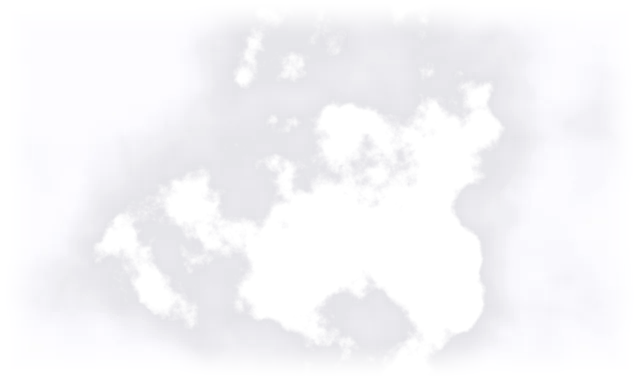
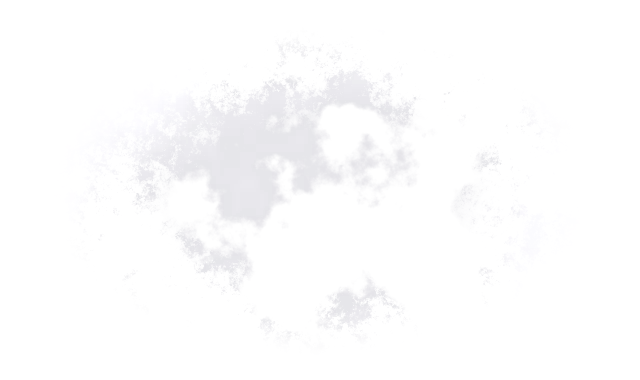
Collapsible panels, no area circles on real data, softer demo clouds
- The left panel (story card, layers, daily briefing) and the timeline fold
  away with a button and come back from a small pill; remembered per browser,
  and the map padding follows.
- Real data: the area circles are no longer drawn; the lake and the name tags
  stay, and the area is still clickable.
- Demo: clouds end in ragged tufts and are always clear near the frame, so the
  image rectangle no longer shows.

diff --git a/js/app.js b/js/app.js
@@ -69,8 +69,30 @@ const fmtNum = (v, d = 0) => `${v > 0 ? '+' : ''}${v.toFixed(d)}`.replace('-', '
 const isMobile = () => innerWidth <= 820;
 
 function pad() {
-  if (isMobile()) return { top: 66, bottom: 140, left: 10, right: 10 };
-  return { top: 76, bottom: 150, left: state.mode === 'explore' ? 348 : 432, right: state.pointId || state.regionId ? 408 : 16 };
+  if (isMobile()) return { top: 66, bottom: ui.tl ? 80 : 140, left: 10, right: 10 };
+  return {
+    top: 76, bottom: ui.tl ? 90 : 150,
+    left: ui.left ? 16 : state.mode === 'explore' ? 348 : 432,
+    right: state.pointId || state.regionId ? 408 : 16,
+  };
+}
+
+// Collapsible panels: the left panel (layers / briefing / story card) and the timeline fold away with a button and
+// come back from a small pill. Remembered per browser.
+const ui = (() => {
+  try { return { left: localStorage.getItem('ed.ui.left') === '1', tl: localStorage.getItem('ed.ui.tl') === '1' }; } catch { return { left: false, tl: false }; }
+})();
+function applyCollapse(ease = false) {
+  app.classList.toggle('left-collapsed', ui.left);
+  app.classList.toggle('tl-collapsed', ui.tl);
+  $('#leftPill').hidden = !ui.left;
+  const label = state.mode === 'story' ? $('#storyTitle').textContent : t(state.mode === 'status' ? 'brief.kicker' : 'layers.title');
+  $('#leftPillLabel').textContent = label;
+  $('#leftPill').title = t('ui.show');
+  $('#tlCollapse').title = t(ui.tl ? 'ui.show' : 'ui.hide');
+  $('#leftCollapse').title = t('ui.hide');
+  try { localStorage.setItem('ed.ui.left', ui.left ? '1' : '0'); localStorage.setItem('ed.ui.tl', ui.tl ? '1' : '0'); } catch { /* ignore */ }
+  if (ease && mapA?.loaded()) mapA.easeTo({ padding: pad(), duration: 500 });
 }
 
 const overlayOpacity = (map) => (state.sensor === 'radar' && !map?.__ovEmpty ? RADAR_OPACITY : 0);
@@ -569,6 +591,7 @@ function renderStory() {
     `<button data-story="${i}" class="${i < state.storyIdx ? 'done' : i === state.storyIdx ? 'now' : ''}" aria-label="${i + 1}"></button>`).join('');
   $('#storyKicker').textContent = L(ch.kicker);
   $('#storyTitle').textContent = L(ch.title);
+  applyCollapse();
   $('#storyBody').textContent = L(ch.body);
   $('#storyNextLabel').textContent = t(state.storyIdx === 0 ? 'story.start' : state.storyIdx === n - 1 ? 'story.finish' : 'story.next');
   $('#storyPrev').disabled = state.storyIdx === 0;
@@ -609,6 +632,7 @@ function setMode(mode) {
   app.classList.remove('drawer');
   $$('.mode').forEach((b) => b.classList.toggle('is-active', b.dataset.mode === mode));
   status.setVisible(mode === 'status');
+  applyCollapse();
   if (mode === 'story') return goStory(0);
   if (mode === 'status') {
     closePoint(false);
@@ -673,6 +697,7 @@ function renderAbout() {
 // ───────────────────────────────────────────────────────── render everything (also on language change)
 function renderAll() {
   document.documentElement.lang = state.lang;
+  applyCollapse();
   $$('[data-i18n]').forEach((el) => { el.textContent = t(el.dataset.i18n); });
   $('#btnLang').classList.toggle('en', state.lang === 'en');
   $('#siteName').textContent = `${L(M.site.name)} · ${L(M.site.country)}`;
@@ -750,6 +775,9 @@ function bindUI() {
     state.tilt = false; $('#btnTilt').classList.remove('is-on');
     mapA.easeTo({ center: M.site.center, zoom: M.site.zoom, pitch: 0, bearing: 0, padding: pad(), duration: 1200 });
   });
+  $('#leftCollapse').addEventListener('click', () => { ui.left = true; applyCollapse(true); });
+  $('#leftPill').addEventListener('click', () => { ui.left = false; applyCollapse(true); });
+  $('#tlCollapse').addEventListener('click', () => { ui.tl = !ui.tl; applyCollapse(true); });
   // the lake alert opens only when asked for: the warning button in the map tools (Status, real data)
   $('#btnAlert').addEventListener('click', () => {
     const lake = status.lakeId();

diff --git a/css/style.css b/css/style.css
@@ -577,3 +577,22 @@ input[type=range]::-moz-range-thumb { width: 12px; height: 12px; border-radius: 
 #btnAlert i { position: absolute; top: 6px; right: 6px; width: 7px; height: 7px; border-radius: 50%; background: currentColor; box-shadow: 0 0 0 2px var(--panel, #11161c); }
 #btnAlert[data-level=""] i, #btnAlert[data-level="ok"] i { display: none; }
 #btnAlert.is-on { background: var(--raise-2); }
+
+/* collapsible panels ------------------------------------------------------- */
+.collapse-btn { width: 30px; height: 30px; flex: none; display: grid; place-items: center; border-radius: 8px; border: 1px solid var(--line); background: var(--panel-solid); color: var(--soft); cursor: pointer; transition: color .2s, border-color .2s; }
+.collapse-btn:hover { color: var(--text); border-color: var(--line-2); }
+.collapse-btn svg, .left-pill svg { width: 16px; height: 16px; fill: none; stroke: currentColor; stroke-width: 2; stroke-linecap: round; stroke-linejoin: round; transition: transform .3s var(--ease); }
+#leftCollapse { position: sticky; top: 0; float: right; margin: -6px -6px 6px 10px; z-index: 3; }
+#left { transition: transform .4s var(--ease), opacity .3s; }
+#app.left-collapsed #left { transform: translateX(calc(-100% - 32px)); opacity: 0; pointer-events: none; }
+.left-pill { top: var(--top-h); left: var(--gap); display: flex; align-items: center; gap: 10px; padding: 10px 16px 10px 12px; max-width: 260px; cursor: pointer; color: var(--text); font: 600 13px var(--ui); }
+.left-pill span { white-space: nowrap; overflow: hidden; text-overflow: ellipsis; }
+.left-pill:hover { border-color: var(--line-2); }
+#app.left-collapsed #timeline { left: var(--gap); }
+#app.tl-collapsed #timeline .track, #app.tl-collapsed #timeline .compare, #app.tl-collapsed #timeline .tl-spacer { display: none; }
+#app.tl-collapsed #timeline { left: auto; padding: 10px 12px 10px 18px; }
+#app.tl-collapsed #tlCollapse svg { transform: rotate(180deg); }
+@media (max-width: 820px) {
+  #app.left-collapsed #left { transform: translateX(calc(-100% - 32px)); }
+  .left-pill { top: calc(var(--top-h) + 54px); max-width: 60vw; }
+}

diff --git a/js/status.js b/js/status.js
@@ -96,8 +96,10 @@ export function createStatus(ctx) {
     map = m;
     const color = ['match', ['get', 'status'], 'alert', COLORS.alert, 'watch', COLORS.watch, COLORS.ok];
     m.addSource('regions', { type: 'geojson', data: geojson() });
-    m.addLayer({ id: 'regions-fill', type: 'fill', source: 'regions', layout: { visibility: 'none' }, paint: { 'fill-color': color, 'fill-opacity': ['case', ['get', 'sel'], 0.3, 0.13] } });
-    m.addLayer({ id: 'regions-line', type: 'line', source: 'regions', layout: { visibility: 'none' }, paint: { 'line-color': color, 'line-width': ['case', ['get', 'sel'], 3, 1.6] } });
+    // real data: the circles are not drawn (the lake itself is the picture); they stay as an invisible click area under the name tags
+    const drawn = !!manifest.demo;
+    m.addLayer({ id: 'regions-fill', type: 'fill', source: 'regions', layout: { visibility: 'none' }, paint: { 'fill-color': color, 'fill-opacity': drawn ? ['case', ['get', 'sel'], 0.3, 0.13] : 0 } });
+    m.addLayer({ id: 'regions-line', type: 'line', source: 'regions', layout: { visibility: 'none' }, paint: { 'line-color': color, 'line-width': ['case', ['get', 'sel'], 3, 1.6], 'line-opacity': drawn ? 1 : 0 } });
     m.on('click', 'regions-fill', (e) => ctx.selectRegion(e.features[0].properties.id));
     m.on('mouseenter', 'regions-fill', () => { m.getCanvas().style.cursor = 'pointer'; });
     m.on('mouseleave', 'regions-fill', () => { m.getCanvas().style.cursor = ''; });

diff --git a/index.html b/index.html
@@ -76,6 +76,7 @@
 
   <!-- ───────── Left: layers (explore) / daily briefing (status) ───────── -->
   <aside id="left" class="panel">
+    <button class="collapse-btn" id="leftCollapse" data-i18n-title="ui.hide"><svg viewBox="0 0 24 24"><path d="M15 6l-6 6 6 6"/></svg></button>
     <div class="status-only">
       <div id="brief"></div>
       <section id="ask" hidden></section>
@@ -164,6 +165,9 @@
     <button id="btnAlert" hidden aria-label="Lake alert"><svg viewBox="0 0 24 24"><path d="M12 4l9 16H3z"/><path d="M12 10v4M12 17.5v.01"/></svg><i></i></button>
   </div>
 
+  <!-- collapsed left panel: a small pill that brings it back -->
+  <button class="panel left-pill" id="leftPill" hidden><svg viewBox="0 0 24 24"><path d="M9 6l6 6-6 6"/></svg><span id="leftPillLabel"></span></button>
+
   <!-- ───────── Timeline ───────── -->
   <footer id="timeline" class="panel">
     <div class="tl-row">
@@ -178,6 +182,7 @@
           <svg viewBox="0 0 24 24"><path d="M12 3v18M4 6h5v12H4zM15 6h5v12h-5z"/></svg><span data-i18n="tl.compare"></span>
         </button>
       </div>
+      <button class="collapse-btn" id="tlCollapse" data-i18n-title="ui.hide"><svg viewBox="0 0 24 24"><path d="M6 9l6 6 6-6"/></svg></button>
     </div>
     <div class="track" id="track">
       <div class="track-rail"><div class="track-fill" id="trackFill"></div></div>

diff --git a/js/i18n.js b/js/i18n.js
@@ -14,6 +14,8 @@ export const STR = {
   'listen.stop': { el: 'Στοπ', en: 'Stop' },
   'unknowns.title': { el: 'Τι δεν μπορούμε να πούμε', en: 'What we cannot say' },
   'tl.compare': { el: 'Σύγκριση', en: 'Compare' },
+  'ui.hide': { el: 'Μάζεμα', en: 'Collapse' },
+  'ui.show': { el: 'Άνοιγμα', en: 'Expand' },
   'tl.frame': { el: 'Λήψη', en: 'Acquisition' },
   'tl.of': { el: 'από', en: 'of' },
   'tile.total': { el: 'Συνολική μετατόπιση', en: 'Total displacement' },

diff --git a/tools/make_demo_data.py b/tools/make_demo_data.py
@@ -347,8 +347,16 @@ def cloud_image(k: int, cover: float) -> np.ndarray:
     """RGBA clouds covering roughly `cover` % of the frame."""
     n = fbm(300 + k, 3.8)
     thr = np.quantile(n, 1 - cover / 100) if cover > 0 else n.max() + 1
+    # towards the frame the cloud field breaks up into scattered puffs and then nothing, so no rectangle shows:
+    # r = distance from the centre in an ellipse (1 at the middle of each edge), bent by slow noise
+    ex = (PX - (W - 1) / 2) / (W / 2)
+    ey = (PY - (H - 1) / 2) / (H / 2)
+    r0 = np.sqrt(ex ** 2 + ey ** 2)
+    # the edge of the cloud deck is ragged: a rough noise field pushes it in and out, so it ends in tufts and gaps
+    ragged = r0 + 0.22 * np.tanh(fbm(700 + k, 2.4))
     a = smoothstep((n - thr) / 0.3) * 0.97
-    a *= smoothstep(np.minimum.reduce([PX, W - 1 - PX, PY, H - 1 - PY]) / 40.0)  # soft frame edge
+    a *= 1 - smoothstep((ragged - 0.45) / 0.3)
+    a *= 1 - smoothstep((r0 - 0.72) / 0.18)                    # and always clear near the frame
     shade = 228 + 24 * smoothstep((n - thr) / 2.2)
     rgba = np.zeros((H, W, 4), np.uint8)
     rgba[..., 0] = rgba[..., 1] = np.clip(shade, 0, 255).astype(np.uint8)
